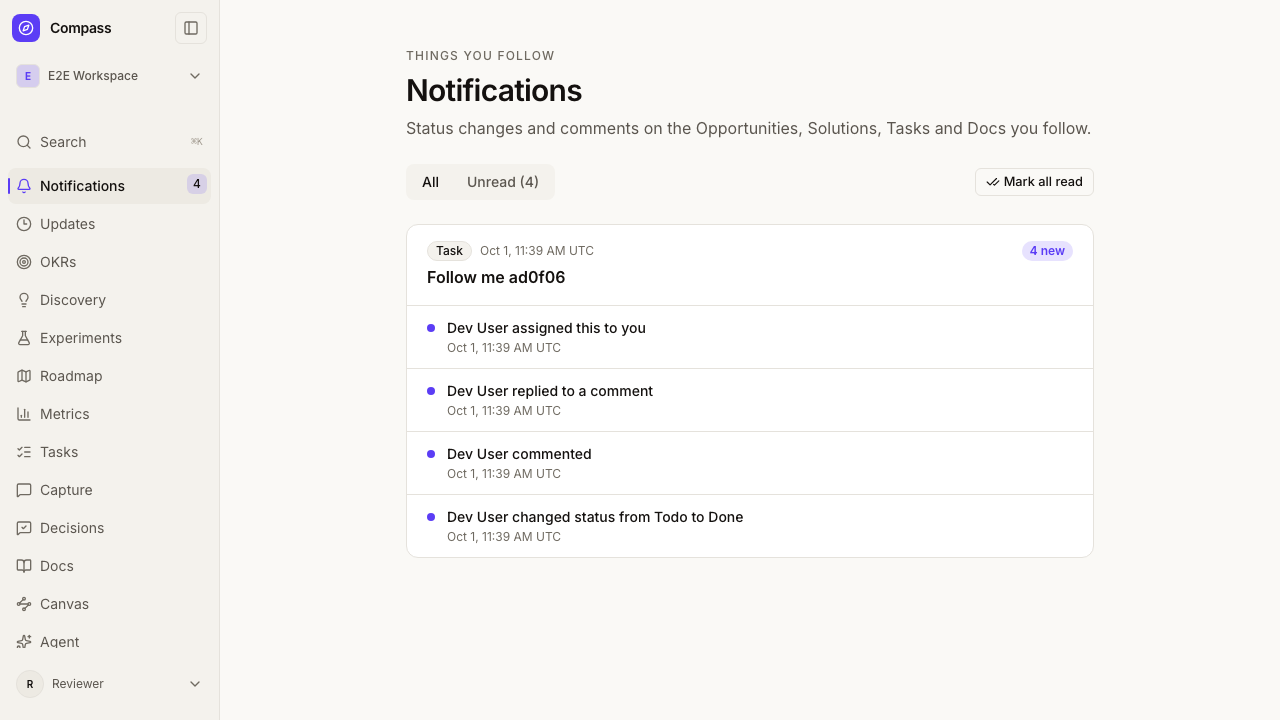
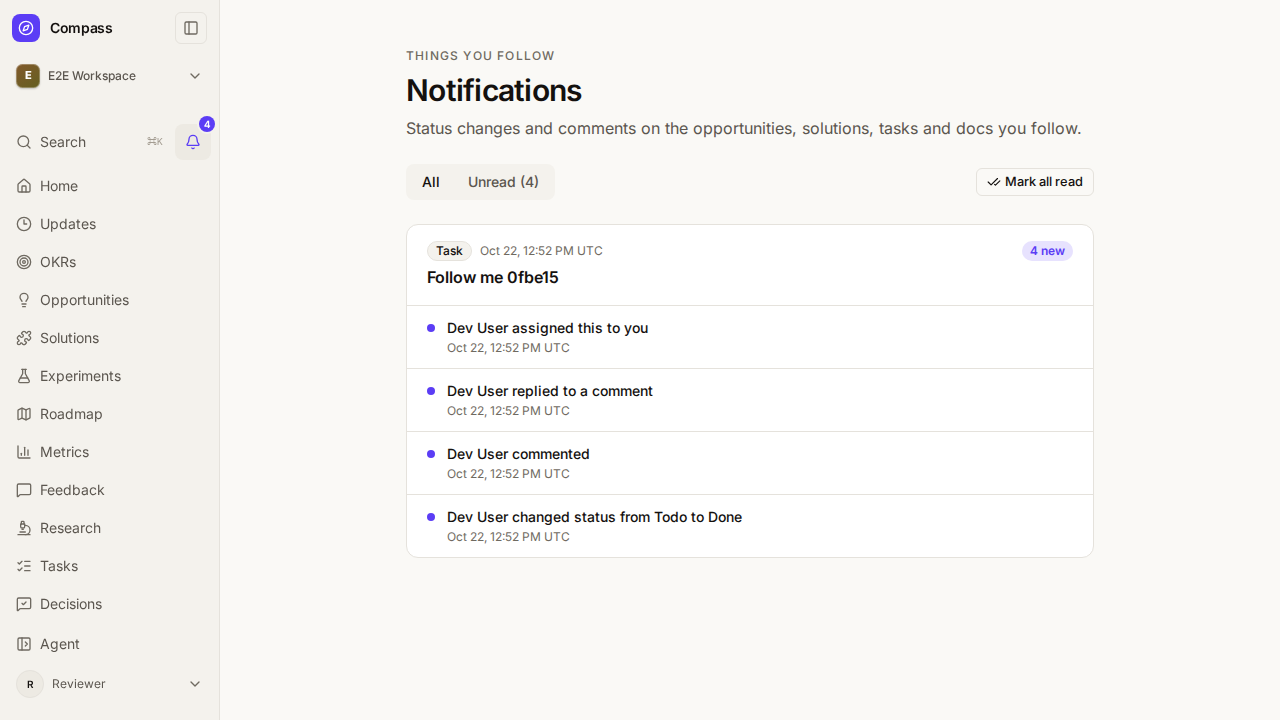
docs: update nav copy for bell beside Search and All roadmaps in workspace picker; regenerate following screenshots

diff --git a/docs/content/10-members.md b/docs/content/10-members.md
@@ -79,7 +79,7 @@ The old slug becomes available for any other organization to claim. Workspace sl
 
 Click the workspace name at the top of the sidebar to open the workspace picker. Type to filter by workspace or organization name, use the arrow keys to move through the list, and press Enter to open one. Switching keeps you in the same section (for example, Roadmap stays Roadmap). When you belong to more than four workspaces, the ones you opened most recently appear first in a **Recent** group. Recents are remembered per browser and are not shared across devices.
 
-Choose **All workspaces** at the bottom of the picker to open the full workspace gallery at `/dashboard`. It shows every workspace as a card, grouped by organization, with search (press `/` or ⌘K). Workspaces where you have read-only access are labelled **Read-only**. If you belong to only one workspace, signing in takes you straight to it.
+If your organization has more than one workspace, **All roadmaps** at the bottom of the picker opens the combined roadmap for the organization (see [All Roadmaps](/help/04-roadmap#all-roadmaps-cross-workspace)). Choose **All workspaces** at the bottom of the picker to open the full workspace gallery at `/dashboard`. It shows every workspace as a card, grouped by organization, with search (press `/` or ⌘K). Workspaces where you have read-only access are labelled **Read-only**. If you belong to only one workspace, signing in takes you straight to it.
 
 ## Deleting a Workspace
 

diff --git a/docs/content/04-roadmap.md b/docs/content/04-roadmap.md
@@ -174,7 +174,7 @@ Views are **personal** by default. The owner can share a view with the workspace
 
 ## All Roadmaps (Cross-Workspace)
 
-**All roadmaps** in the sidebar opens a read-only roadmap at `/[org]/roadmap` that combines every workspace in the organization you can read. Filter by workspace, horizon, squad, status, date range, or linked key result or solution, then group and sort the results. Each item links back to its own workspace, where you edit it. The same saved views menu is available here.
+**All roadmaps**, in the workspace picker (the menu at the top of the sidebar) and in the account menu on a phone, opens a read-only roadmap at `/[org]/roadmap` that combines every workspace in the organization you can read. Filter by workspace, horizon, squad, status, date range, or linked key result or solution, then group and sort the results. Each item links back to its own workspace, where you edit it. The same saved views menu is available here.
 
 Because `roadmap` and `settings` are used by these organization pages, they cannot be used as workspace slugs.
 

diff --git a/docs/content/27-following.md b/docs/content/27-following.md
@@ -51,8 +51,9 @@ does not cover its Assumptions or Experiments. Follow each thing you care about.
 
 ## The bell and the inbox
 
-The **Notifications** entry in the navigation shows how many notifications you
-have not read (up to 99+). On a phone it is the **Inbox** button in the header.
+The **bell** beside Search at the top of the sidebar shows how many notifications you
+have not read (up to 99+); on a collapsed sidebar it shows a dot instead of the
+number. On a phone it is the **Inbox** button in the header.
 The count refreshes when you move around the app and when you return to the tab.
 
 ![Notifications inbox on desktop](/screenshots/docs/following-inbox-desktop.png)
